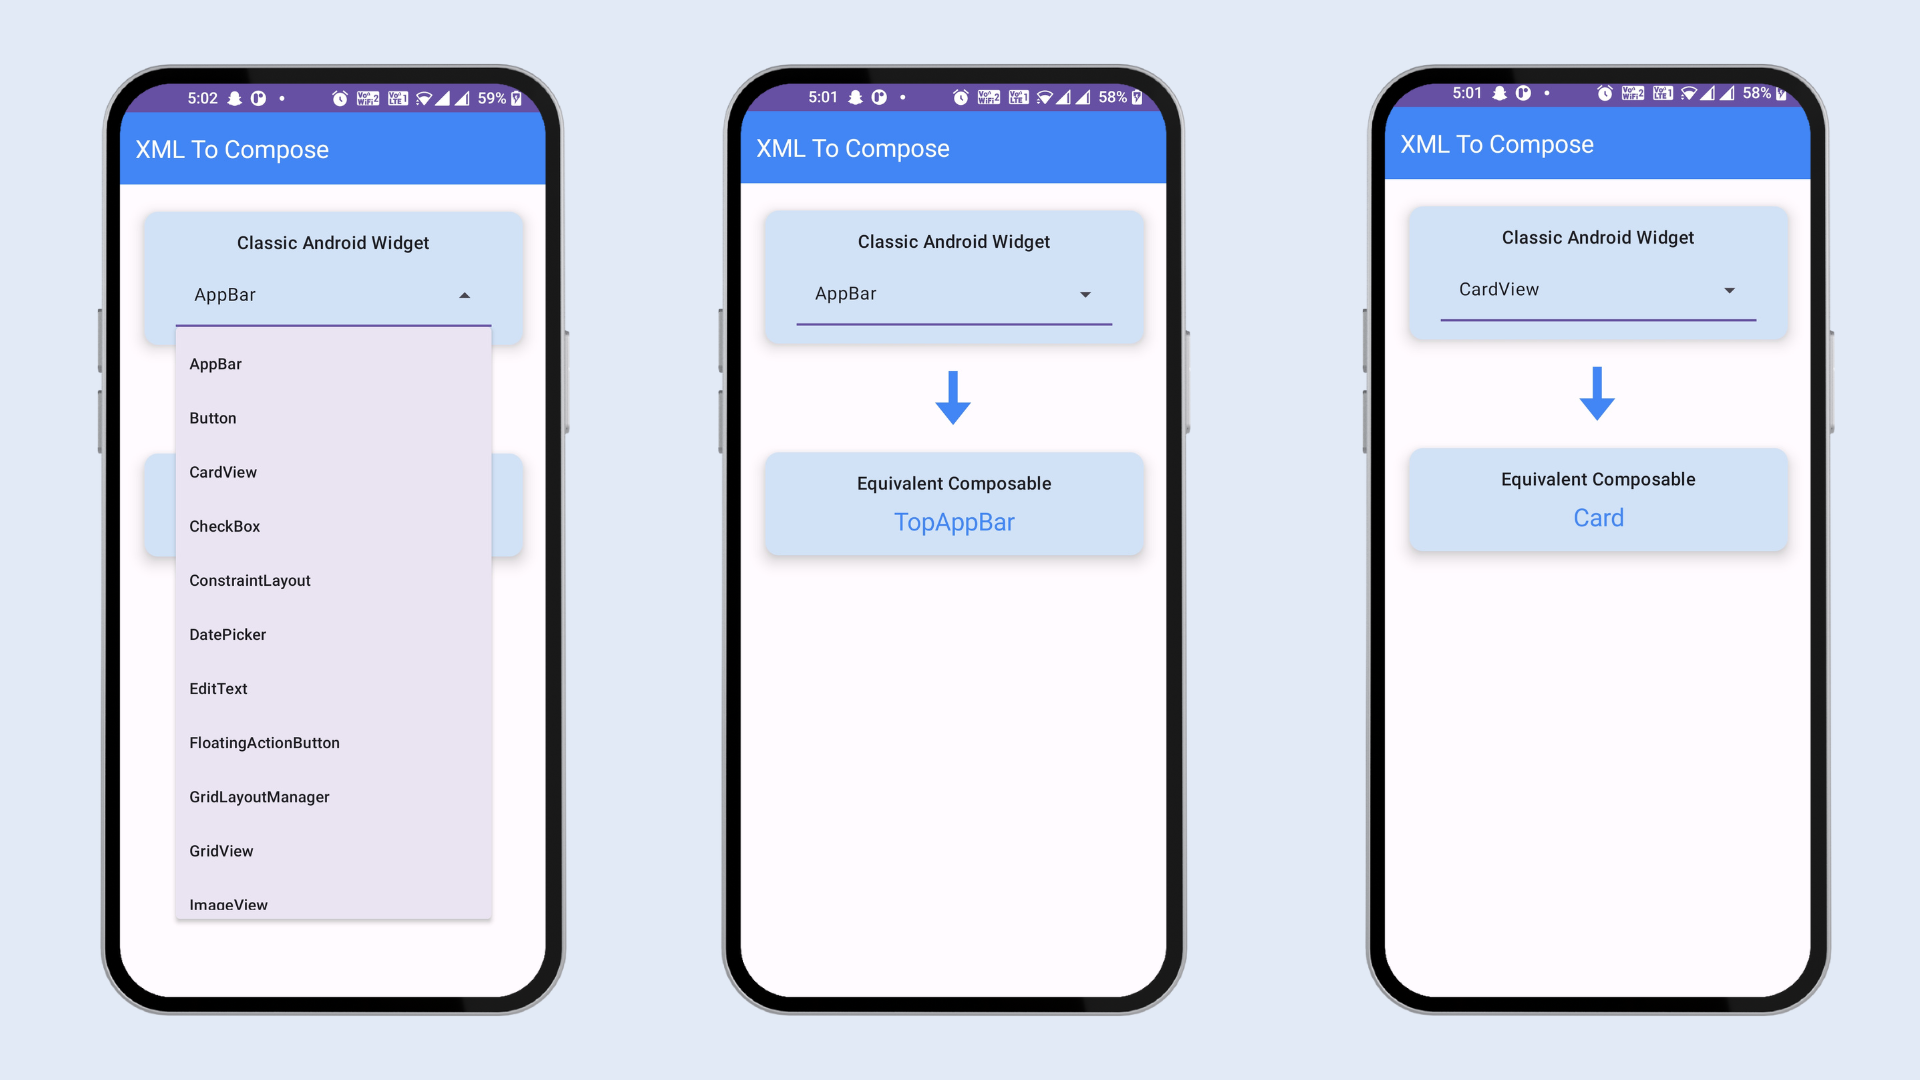
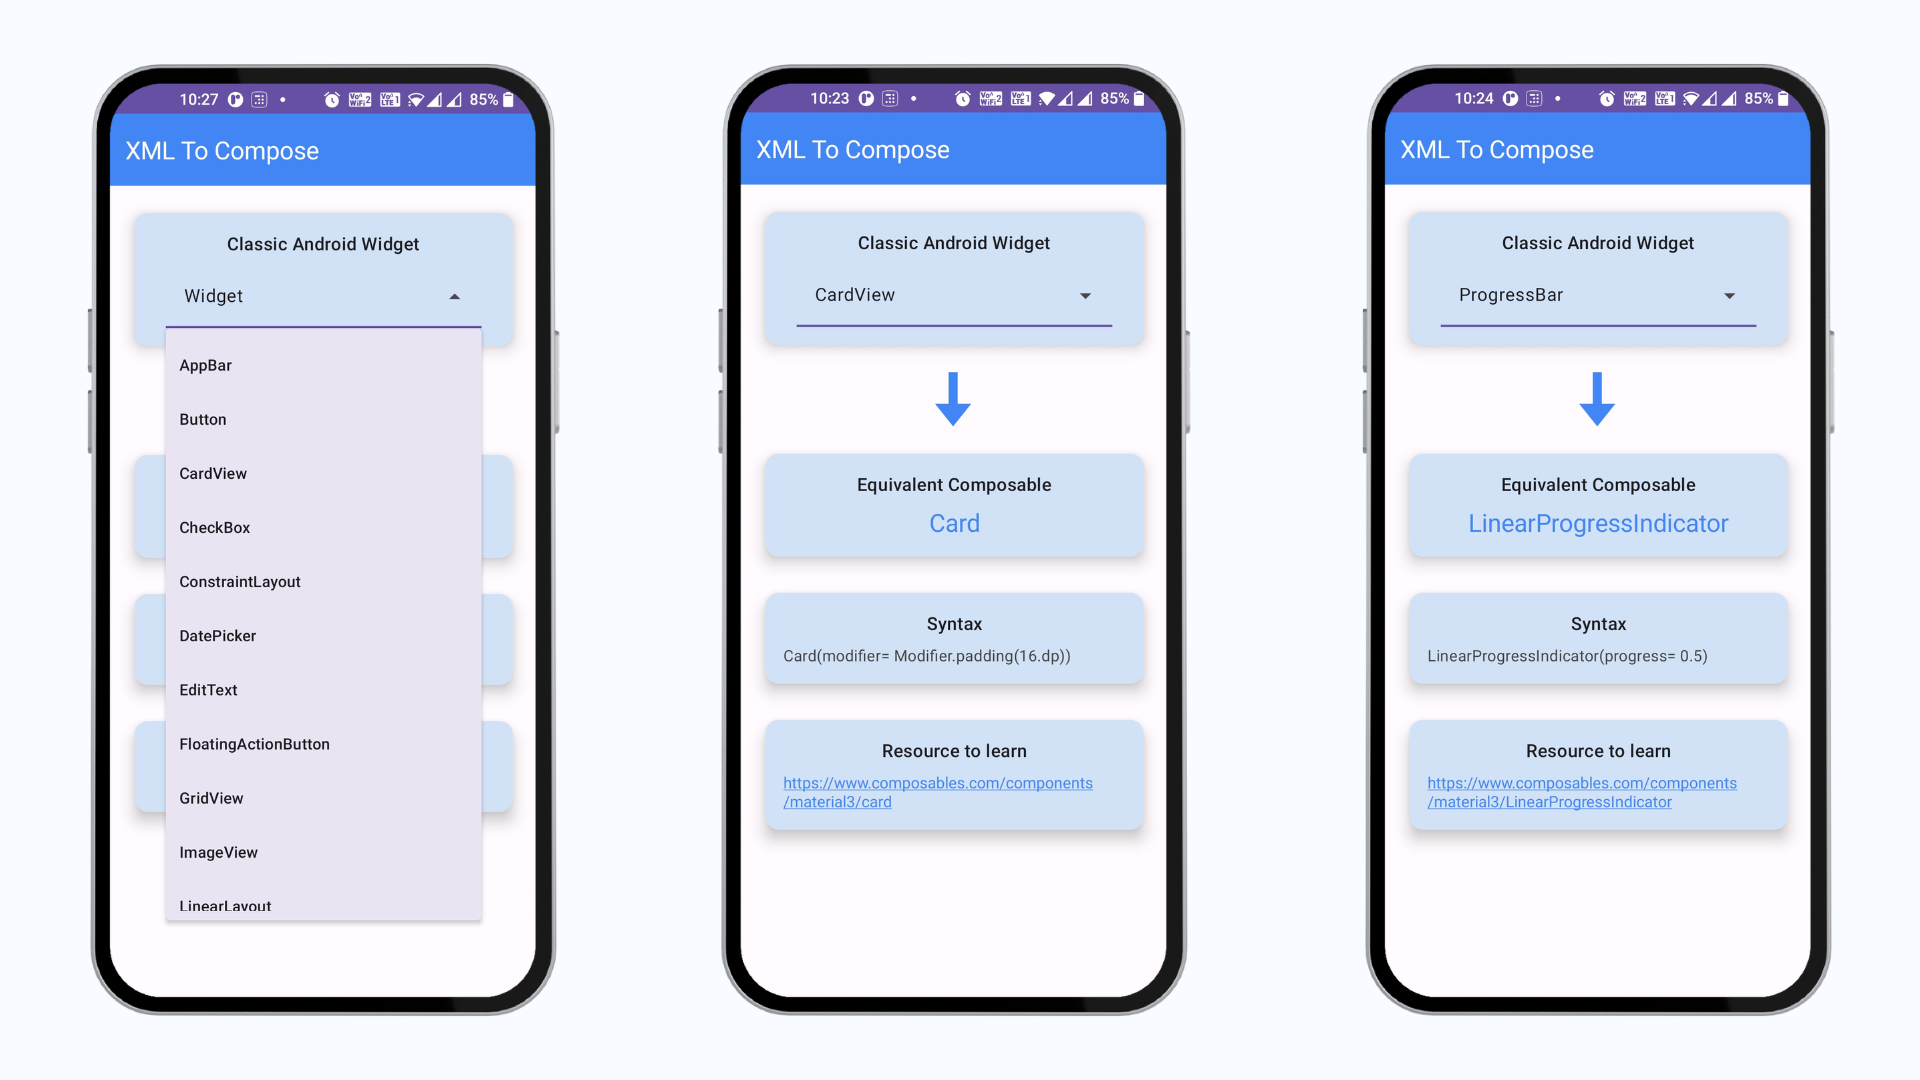
Added syntax and resource links for composable.

diff --git a/app/src/main/java/com/example/xmltocompose/MainActivity.kt b/app/src/main/java/com/example/xmltocompose/MainActivity.kt
@@ -1,8 +1,11 @@
 package com.example.xmltocompose
 
 import android.content.Context
+import android.content.Intent
+import android.graphics.Paint
 import android.net.ConnectivityManager
 import android.net.NetworkCapabilities
+import android.net.Uri
 import android.os.Bundle
 import android.widget.Toast
 import androidx.activity.ComponentActivity
@@ -16,6 +19,7 @@ import androidx.compose.foundation.layout.fillMaxSize
 import androidx.compose.foundation.layout.fillMaxWidth
 import androidx.compose.foundation.layout.height
 import androidx.compose.foundation.layout.padding
+import androidx.compose.foundation.text.ClickableText
 import androidx.compose.material3.Card
 import androidx.compose.material3.CardDefaults
 import androidx.compose.material3.DropdownMenuItem
@@ -37,10 +41,17 @@ import androidx.compose.ui.Modifier
 import androidx.compose.ui.graphics.Color
 import androidx.compose.ui.graphics.ColorFilter
 import androidx.compose.ui.platform.LocalContext
+import androidx.compose.ui.platform.LocalUriHandler
 import androidx.compose.ui.res.painterResource
+import androidx.compose.ui.text.AnnotatedString
+import androidx.compose.ui.text.TextStyle
+import androidx.compose.ui.text.style.TextAlign
+import androidx.compose.ui.text.style.TextDecoration
 import androidx.compose.ui.tooling.preview.Preview
 import androidx.compose.ui.unit.dp
+import androidx.compose.ui.unit.sp
 import androidx.core.content.ContextCompat.getSystemService
+import androidx.core.content.ContextCompat.startActivity
 import com.example.xmltocompose.ui.theme.XMLToComposeTheme
 import com.example.xmltocompose.ui.theme.blue
 import com.example.xmltocompose.ui.theme.pastelBlue
@@ -63,7 +74,7 @@ class MainActivity : ComponentActivity() {
         // Load data using CoroutineScope
         // CoroutineScope is used here for better performance
         CoroutineScope(Dispatchers.IO).launch {
-            DataManager.loadAssetsFromUrl(applicationContext)
+            DataManager.loadAssetsFromUrl()
         }
 
         setContent {
@@ -96,10 +107,14 @@ class MainActivity : ComponentActivity() {
 @Composable
 fun MainComposable() {
 
+    val context = LocalContext.current
+
     // Define mutable state variables for UI interaction
     val isExpanded = remember { mutableStateOf(false) }
     val selectedWidget = remember { mutableStateOf("Widget") }
     val equivalentComposable = remember { mutableStateOf("Composable") }
+    val composableSyntax=remember{ mutableStateOf("") }
+    val composableLink = remember{ mutableStateOf("") }
 
     // Column composable for the main UI content
     Column(modifier = Modifier.padding(8.dp)) {
@@ -139,7 +154,7 @@ fun MainComposable() {
                             readOnly = true,
                             trailingIcon = { ExposedDropdownMenuDefaults.TrailingIcon(expanded = isExpanded.value) },
                             modifier = Modifier.menuAnchor(),
-                            colors = TextFieldDefaults.textFieldColors(containerColor = pastelBlue )
+                            colors = TextFieldDefaults.textFieldColors(containerColor = pastelBlue)
                         )
 
                         // ExposedDropdownMenu displaying different widgets
@@ -149,9 +164,13 @@ fun MainComposable() {
                         ) {
                             DataManager.data.forEach {
                                 DropdownMenuItem(text = { Text(it.widget) }, onClick = {
+
+                                    //change the state values
                                     isExpanded.value = false
                                     selectedWidget.value = it.widget
                                     equivalentComposable.value = it.composable
+                                    composableSyntax.value=it.syntax
+                                    composableLink.value=it.link
                                 })
                             }
                         }
@@ -208,6 +227,83 @@ fun MainComposable() {
                 }
             }
         }
+
+        // Card displaying the equivalent composable
+        Card(
+            elevation = CardDefaults.cardElevation(defaultElevation = 10.dp),
+            colors = CardDefaults.cardColors(containerColor = pastelBlue),
+            modifier = Modifier
+                .padding(16.dp)
+                .fillMaxWidth()
+        ) {
+
+            // Box to center content within the card
+
+            Column(
+                modifier = Modifier
+                    .padding(16.dp),
+                verticalArrangement = Arrangement.Center
+            ) {
+                Text(
+                    text = "Syntax",
+                    style = MaterialTheme.typography.titleMedium,
+                    color = MaterialTheme.colorScheme.onBackground,
+                    textAlign = TextAlign.Center,
+                    modifier = Modifier.fillMaxWidth()
+                )
+                Spacer(modifier = Modifier.height(8.dp))
+
+                // Text displaying the selected equivalent composable
+                Text(
+                    text = composableSyntax.value,
+                    style = MaterialTheme.typography.bodyMedium,
+                    color = Color.DarkGray
+                )
+            }
+        }
+
+        // Card displaying the equivalent composable
+        Card(
+            elevation = CardDefaults.cardElevation(defaultElevation = 10.dp),
+            colors = CardDefaults.cardColors(containerColor = pastelBlue),
+            modifier = Modifier
+                .padding(16.dp)
+                .fillMaxWidth()
+        ) {
+
+            // Box to center content within the card
+
+            Column(
+                modifier = Modifier
+                    .padding(16.dp),
+                verticalArrangement = Arrangement.Center
+            ) {
+                Text(
+                    text = "Resource to learn",
+                    style = MaterialTheme.typography.titleMedium,
+                    color = MaterialTheme.colorScheme.onBackground,
+                    textAlign = TextAlign.Center,
+                    modifier = Modifier.fillMaxWidth()
+                )
+                Spacer(modifier = Modifier.height(8.dp))
+
+                // Text displaying the selected equivalent composable
+                ClickableText(
+                    text = AnnotatedString(composableLink.value),
+                    onClick = {
+                        // Open the link when clicked
+                        val uri = Uri.parse(composableLink.value)
+                        val intent = Intent(Intent.ACTION_VIEW, uri)
+                        context.startActivity(intent)
+                    },
+                    style = TextStyle(
+                        color = blue,
+                        textDecoration = TextDecoration.Underline
+                    )
+                )
+            }
+        }
+
     }
 
 
@@ -223,7 +319,6 @@ fun GreetingPreview() {
             TopAppBar(
                 title = { Text("XML To Compose") },
                 colors = TopAppBarDefaults.smallTopAppBarColors(
-
                     containerColor = blue,
                     titleContentColor = Color.White
                 )
@@ -244,7 +339,8 @@ fun GreetingPreview() {
 }
 
 private fun isInternetAvailable(context: Context): Boolean {
-    val connectivityManager = context.getSystemService(Context.CONNECTIVITY_SERVICE) as ConnectivityManager
+    val connectivityManager =
+        context.getSystemService(Context.CONNECTIVITY_SERVICE) as ConnectivityManager
     val activeNetworkInfo = connectivityManager.activeNetworkInfo
     return activeNetworkInfo?.isConnectedOrConnecting ?: false
 }

diff --git a/app/src/main/java/com/example/xmltocompose/DataManager.kt b/app/src/main/java/com/example/xmltocompose/DataManager.kt
@@ -15,9 +15,9 @@ object DataManager {
     var data = emptyArray<WidgetInfo>()
 
     // Function to load data from a JSON file in assets folder
-    fun loadAssetsFromUrl(context: Context) {
+    fun loadAssetsFromUrl() {
 
-        val response = fetchJsonFromUrl("https://raw.githubusercontent.com/bhoomi0104/XML-To-Compose/master/assets/widgets.json")
+        val response = fetchJsonFromUrl()
 
         // Initialize Gson to parse JSON data
         val gson = Gson()
@@ -26,11 +26,14 @@ object DataManager {
         data = gson.fromJson(response, Array<WidgetInfo>::class.java)
 
         // Sort the data array by widget name in alphabetical order (A to Z)
-        data= data.sortedBy { it.widget }.toTypedArray()
+        data = data.sortedBy { it.widget }.toTypedArray()
     }
 
-    private fun fetchJsonFromUrl(url: String): String {
-        val connection = URL(url).openConnection() as HttpURLConnection
+    // Function to load data from a JSON file in assets folder
+
+    private fun fetchJsonFromUrl(): String {
+        val connection =
+            URL("https://raw.githubusercontent.com/bhoomi0104/XML-To-Compose/master/assets/widgets.json").openConnection() as HttpURLConnection
         connection.requestMethod = "GET"
         connection.connect()
 
@@ -48,4 +51,5 @@ object DataManager {
             throw Exception("Failed to fetch data from URL")
         }
     }
+
 }

diff --git a/app/src/main/java/com/example/xmltocompose/models/WidgetInfo.kt b/app/src/main/java/com/example/xmltocompose/models/WidgetInfo.kt
@@ -2,7 +2,7 @@ package com.example.xmltocompose.models
 
 data class WidgetInfo(
     val widget: String,
-    val composable: String
-//    val composableSyntax: String,
-//    val link: String
+    val composable: String,
+    val syntax: String,
+    val link: String,
 )

diff --git a/README.md b/README.md
@@ -9,7 +9,7 @@ The XML to Compose Converter is a tool that assists you in transitioning from cl
 ## Features
 
 - Choose from a variety of classic Android widgets.
-- Instantly discover the equivalent Jetpack Compose composable.
+- Instantly discover the equivalent Jetpack Compose composable, it's syntax and resource to learn that composable.
 - Simplify your migration to Jetpack Compose.
 
 ## Screenshots
